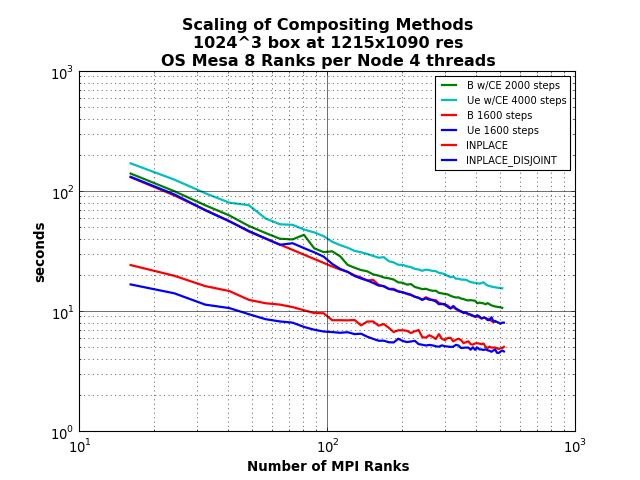
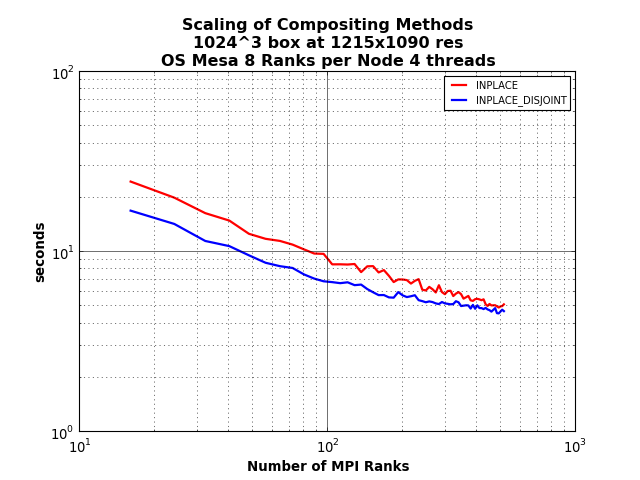
made some tweaks to edison scalaing scripts

diff --git a/edison/analysis/plot-results-scaling.py b/edison/analysis/plot-results-scaling.py
@@ -310,6 +310,7 @@ for k in sorted(khuewoce.keys()):
 #mpl.grid()
 #mpl.show()
 
+mpl.figure()
 mpl.loglog(khbce_x, khbce_t, 'g-', linewidth=2, label='B w/CE 2000 steps')
 mpl.loglog(khuece_x, khuece_t, 'c-', linewidth=2, label='Ue w/CE 4000 steps')
 mpl.loglog(khbwoce_x, khbwoce_t, 'r-', linewidth=2, label='B 1600 steps')
@@ -471,6 +472,7 @@ for k in sorted(prip.keys()):
   prip_x.append(k)
   prip_t.append(prip[k])
 
+mpl.figure()
 mpl.loglog(prip_x, prip_t, 'r-', linewidth=2, label='INPLACE')
 mpl.loglog(pripd_x, pripd_t, 'b-', linewidth=2, label='INPLACE_DISJOINT')
 mpl.title('Scaling of Compositing Methods\n1024^3 box at 1215x1090 res\nOS Mesa 8 Ranks per Node 4 threads',fontweight='bold')
@@ -565,6 +567,7 @@ groupPlots=[[],[],[],[],[],[],[],[],[],[],[]]
 
 ranks=np.arange(16)-0.5
 
+mpl.figure()
 mpl.subplot(121)
 groupPlots[0]=mpl.bar(ranks,groupData[0],color=groupColors[0],linewidth=0)
 i=1
@@ -676,6 +679,7 @@ groupPlots=[[],[],[],[],[],[],[],[],[],[],[],[]]
 
 ranks=np.arange(16)-0.5
 
+mpl.figure()
 mpl.subplot(121)
 groupPlots[0]=mpl.bar(ranks,groupData[0],color=groupColors[0],linewidth=0)
 i=1
